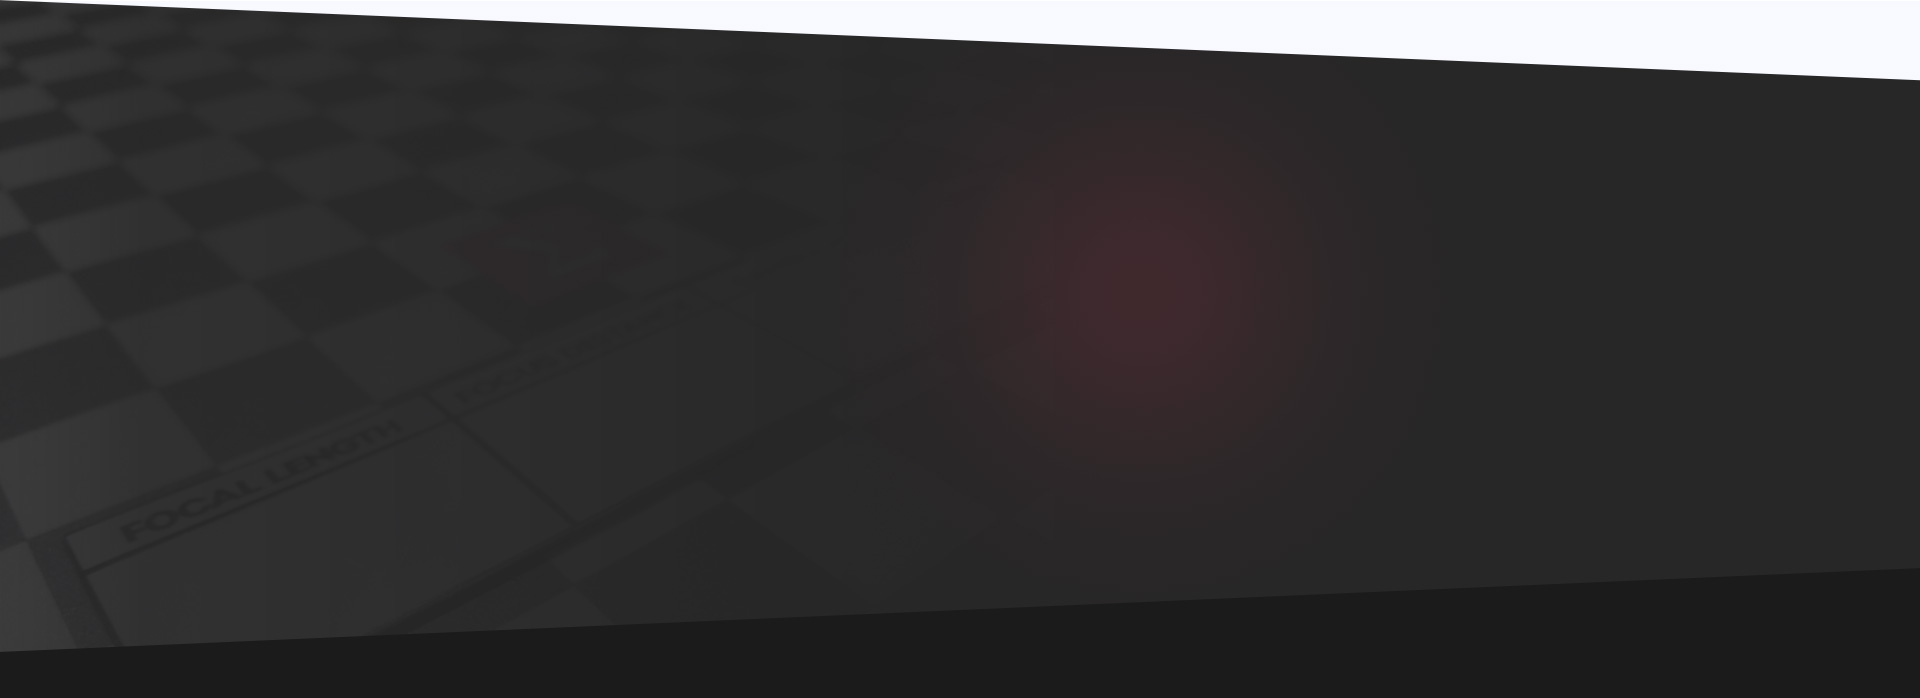
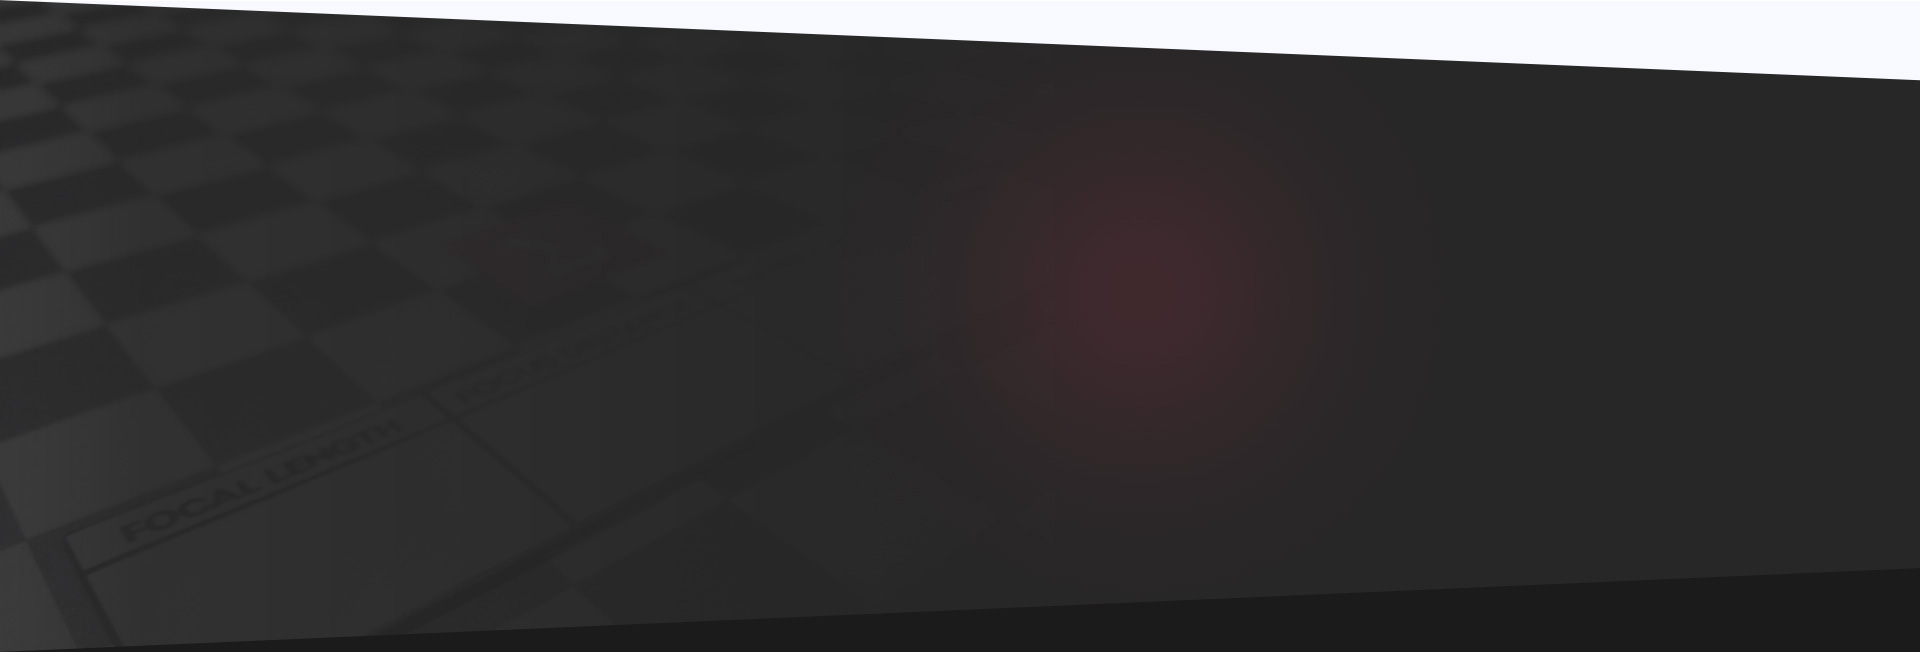
Add files via upload

diff --git a/distortion-grid/css/main.css b/distortion-grid/css/main.css
@@ -86,6 +86,7 @@ svg path {
 }
 
 button {
+	font-family: 'Ubuntu', sans-serif;
 	cursor: pointer;
 }
 
@@ -135,7 +136,7 @@ fieldset {
 	position: relative;
 	border: 4px solid #41232a;
 	margin: 0px auto;
-	margin-top: 20px;
+	margin-top: 10px;
 	margin-bottom: 70px;
 	padding-bottom: 55px;
 	max-width: 750px;
@@ -180,20 +181,20 @@ legend {
 	height: 95px;
 	border-radius: 50%;
 	background-color: #f4365c;
-	padding-top: 13px;
+	padding-top: 8px;
 }
 
 .price {
 	font-size: 1.750em;
 	font-weight: 700;
 	color: #fff;
-	width: 69px;
-	height: 69px;
+	width: 79px;
+	height: 79px;
 	border: 4px solid #f76582;
 	border-radius: 50%;
 	text-align: center;
 	margin: 0px auto;
-	line-height: 2em;
+	line-height: 2.5em;
 }
 
 .sl2 {
@@ -345,8 +346,8 @@ legend {
 	font-weight: 700;
 	color: #fff;
 	text-transform: uppercase;
-	padding: 6px 0px 9px 0px;
-	line-height: 1.3em;
+	padding: 8px 0px 9px 0px;
+	/*line-height: 1.3em;*/
 	margin-left: 28px;
 }
 
@@ -362,7 +363,7 @@ legend {
 
 .spec {
 	padding-top: 90px;
-	padding-bottom: 90px;
+	padding-bottom: 40px;
 	background-color: #f8f9ff;
 }
 
@@ -417,6 +418,11 @@ legend {
 	margin-right: 70px;
 }
 
+.easily {
+	position: relative;
+	left: 50px;
+}
+
 .spec-img {
 	position: relative;
 	width: 98px;
@@ -457,13 +463,14 @@ legend {
 .spec-text {
 	font-weight: 400;
 	color: #9a9b9e;
+	line-height: 1.3em;
 }
 
 /* PDF */
 
 .pdf {
-	background: #f8f9ff url(../img/form2-bg.jpg) no-repeat center top;
-	padding-bottom: 125px;
+	background: #f8f9ff url(../img/form22-bg.jpg) no-repeat center top;
+	padding-bottom: 100px;
 }
 
 .pdf-box {
@@ -505,9 +512,11 @@ legend {
 	font-weight: 300;
 	color: #9a9c9d;
 	max-width: 360px;
+	line-height: 1.5em;
 }
 
 .pdf-right {
+	margin-top: 10px;
 	margin-left: 100px;
 }
 
@@ -515,6 +524,8 @@ legend {
 
 .footer {
 	background: #1b1b1b;
+	padding-bottom: 10px;
+	margin-top: -2px;
 }
 
 .footer-box {
@@ -625,6 +636,10 @@ legend {
 	}
 	.spec-box .easily {
 		margin-right: 30px;
+		left: 0px;
+	}
+	.footer {
+		margin-top: -30px;
 	}
 }
 
@@ -714,7 +729,15 @@ legend {
 		margin: 0px 5px;
 	}
 	.price-box {
-		top: 445px;
+		width: 85px;
+		height: 85px;
+		top: 425px;
+		margin-left: -50px;
+	}
+	.price {
+		width: 69px;
+		height: 69px;
+		line-height: 2.2em;
 	}
 	.spec {
 		padding-top: 0px;
@@ -798,9 +821,14 @@ legend {
 		display: none;
 	}
 	.price-box {
+		width: 85px;
+		height: 85px;
 		top: 330px;
+		margin-left: -50px;
 	}
 	.price {
+		width: 69px;
+		height: 69px;
 		line-height: 2.4em;
 	}
 	.order {
@@ -835,10 +863,15 @@ legend {
 		width: 320px;
 	}
 	.price-box {
-		top: 310px;
+		width: 75px;
+    	height: 75px;
+		top: 320px;
+		margin-left: -40px;
 	}
 	.price {
-		line-height: 2.7em;
+		width: 59px;
+    	height: 59px;
+		line-height: 2.2em;
 	}
 	.number {
 		padding: 6px 0px;
@@ -881,10 +914,10 @@ legend {
 		width: 270px;
 	}
 	.price-box {
-		top: 280px;
+		top: 285px;
 	}
 	.price {
-		line-height: 2.7em;
+		line-height: 2.4em;
 	}
 	.number {
 		padding: 6px 0px;

diff --git a/distortion-grid/howto/css/main.css b/distortion-grid/howto/css/main.css
@@ -86,16 +86,17 @@ button {
 	background-color: #272727;
 	background-image: url(../img/howto.jpg);
 	background-repeat: no-repeat;
-	background-position: center top;
+	background-position: center center;
 	background-size: cover;
 	padding-top: 20px;
-	padding-bottom: 190px;
+	/*padding-bottom: 60px;*/
+	height: 95%;
 }
 
 .header-up {
 	justify-content: space-between;
 	align-items: center;
-	padding-bottom: 150px;
+	padding-bottom: 130px;
 }
 
 .logo img {
@@ -201,13 +202,29 @@ button {
 	line-height: 2.1em;
 }
 
+.manual-fb:hover {
+	color: #fff;
+	border-color: #fff;
+}
+
+.manual-fb:active {
+	color: #fff;
+	border-color: #fff;
+}
+
 .manual-fb svg {
 	margin-right: 10px;
 	transform: translateY(3px);
 }
 
-.manual-vk {
-	
+.manual-vk:hover {
+	color: #fff;
+	border-color: #fff;
+}
+
+.manual-vk:active {
+	color: #fff;
+	border-color: #fff;
 }
 
 .manual-vk svg {
@@ -221,7 +238,7 @@ button {
 }
 
 .view a:hover {
-	color: #ff5172;
+	color: #fff;
 }
 
 .view a:active {
@@ -240,7 +257,14 @@ button {
 /* FOOTER */
 
 .footer {
+	position: fixed;
+	left: 0;
+	bottom: 0;
+	width: 100%;
 	background: #1b1b1b;
+	padding-top: 10px;
+	padding-bottom: 10px;
+	margin-top: -2px;
 }
 
 .footer-box {
@@ -275,6 +299,7 @@ button {
 	}
 	.header {
 		padding-bottom: 140px;
+		height: auto;
 	}
 	.header-up {
 		padding-bottom: 80px;
@@ -287,7 +312,8 @@ button {
 		margin-bottom: 50px;
 	}
 	.footer {
-		margin-top: -1px;
+		position: static;
+		margin-top: -80px;
 		padding-bottom: 10px;
 	}
 }
@@ -363,12 +389,15 @@ button {
 		flex-direction: column;
 	}
 	.footer-left {
+		order: 1;
 		margin-bottom: 15px;
 	}
 	.footer-center {
+		order: 0;
 		margin-bottom: 15px;
 	}
 	.footer-right {
+		order: -1;
 		margin-bottom: 15px;
 	}
 }

diff --git a/distortion-grid/index.html b/distortion-grid/index.html
@@ -309,12 +309,5 @@
 	<script type="text/javascript" src="js/jquery-3.3.1.js"></script>
 	<script type="text/javascript" src="slick/slick.min.js"></script>
 	<script type="text/javascript" src="js/main.js"></script>
-	<script>
-		if( /Android|webOS|iPhone|iPad|iPod|BlackBerry|IEMobile|Opera Mini/i.test(navigator.userAgent) ) {
-  			document.getElementById("header-phone").innerHTML = '<a href="tel:+ 9293248855">(929)324-8855</a>';
- 		} else	{
-  			document.getElementById("header-phone").innerHTML = '<a href="tel:+ 9293248855">(929)324-8855</a> ';
-		}
-	</script>
 </body>
 </html>

diff --git a/distortion-grid/howto/index.html b/distortion-grid/howto/index.html
@@ -86,7 +86,7 @@
 						</a>
 					</div>
 					<div class="view">
-						<a href="#">View product</a>
+						<a href="../index.html">View product</a>
 					</div>
 				</div>
 			</div>
